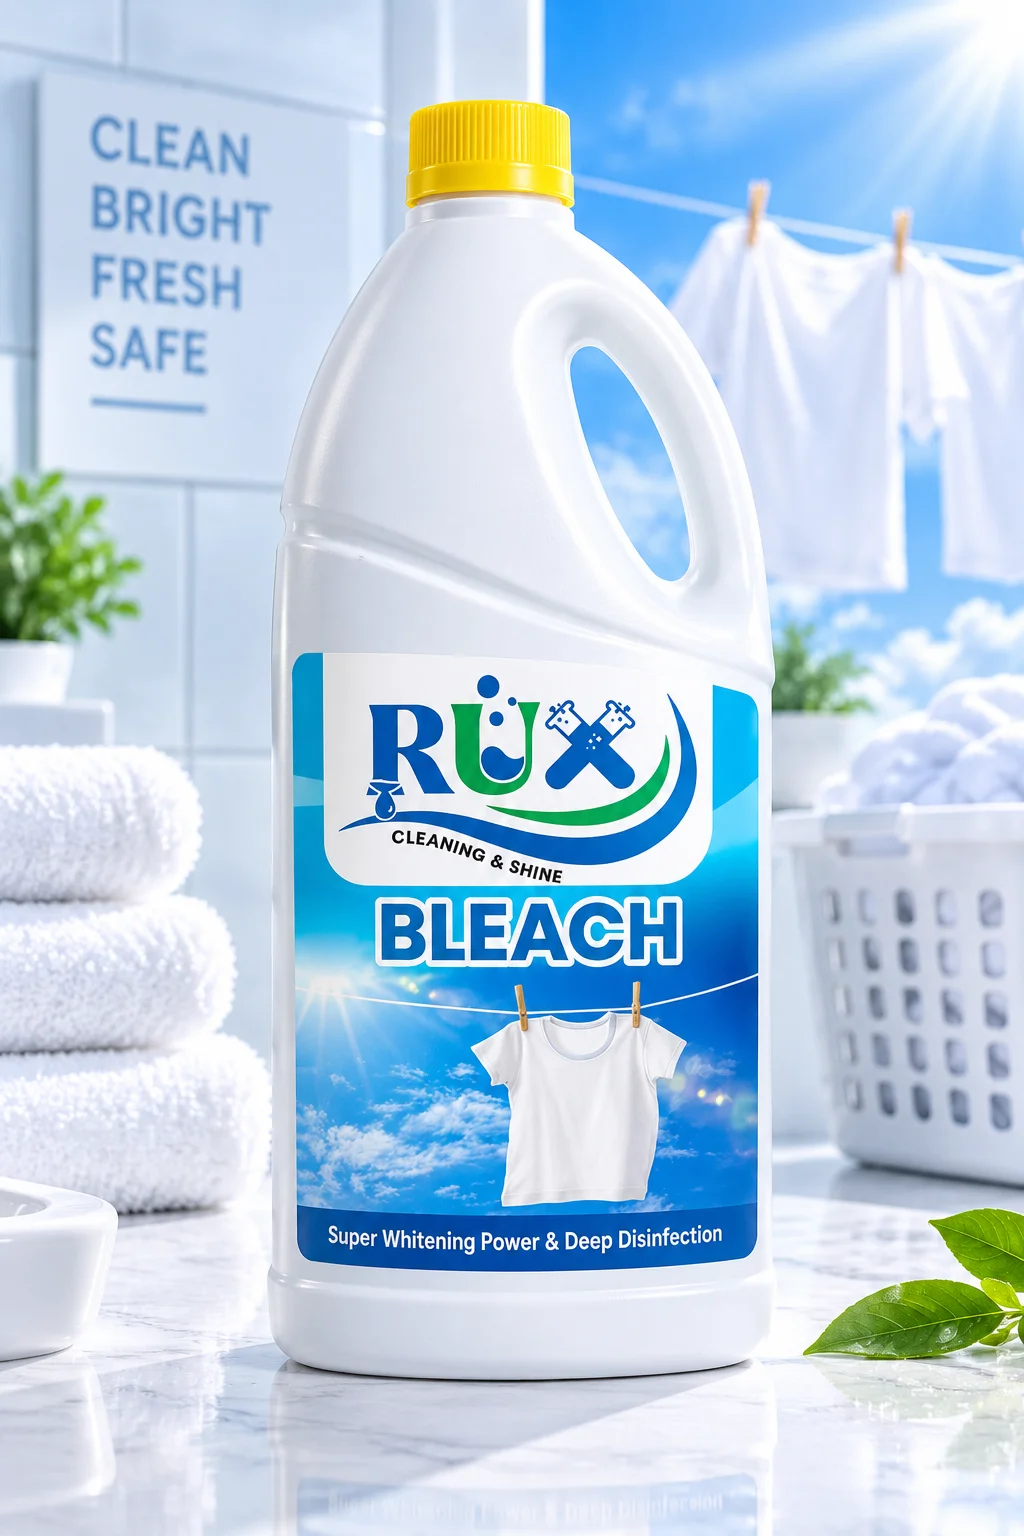
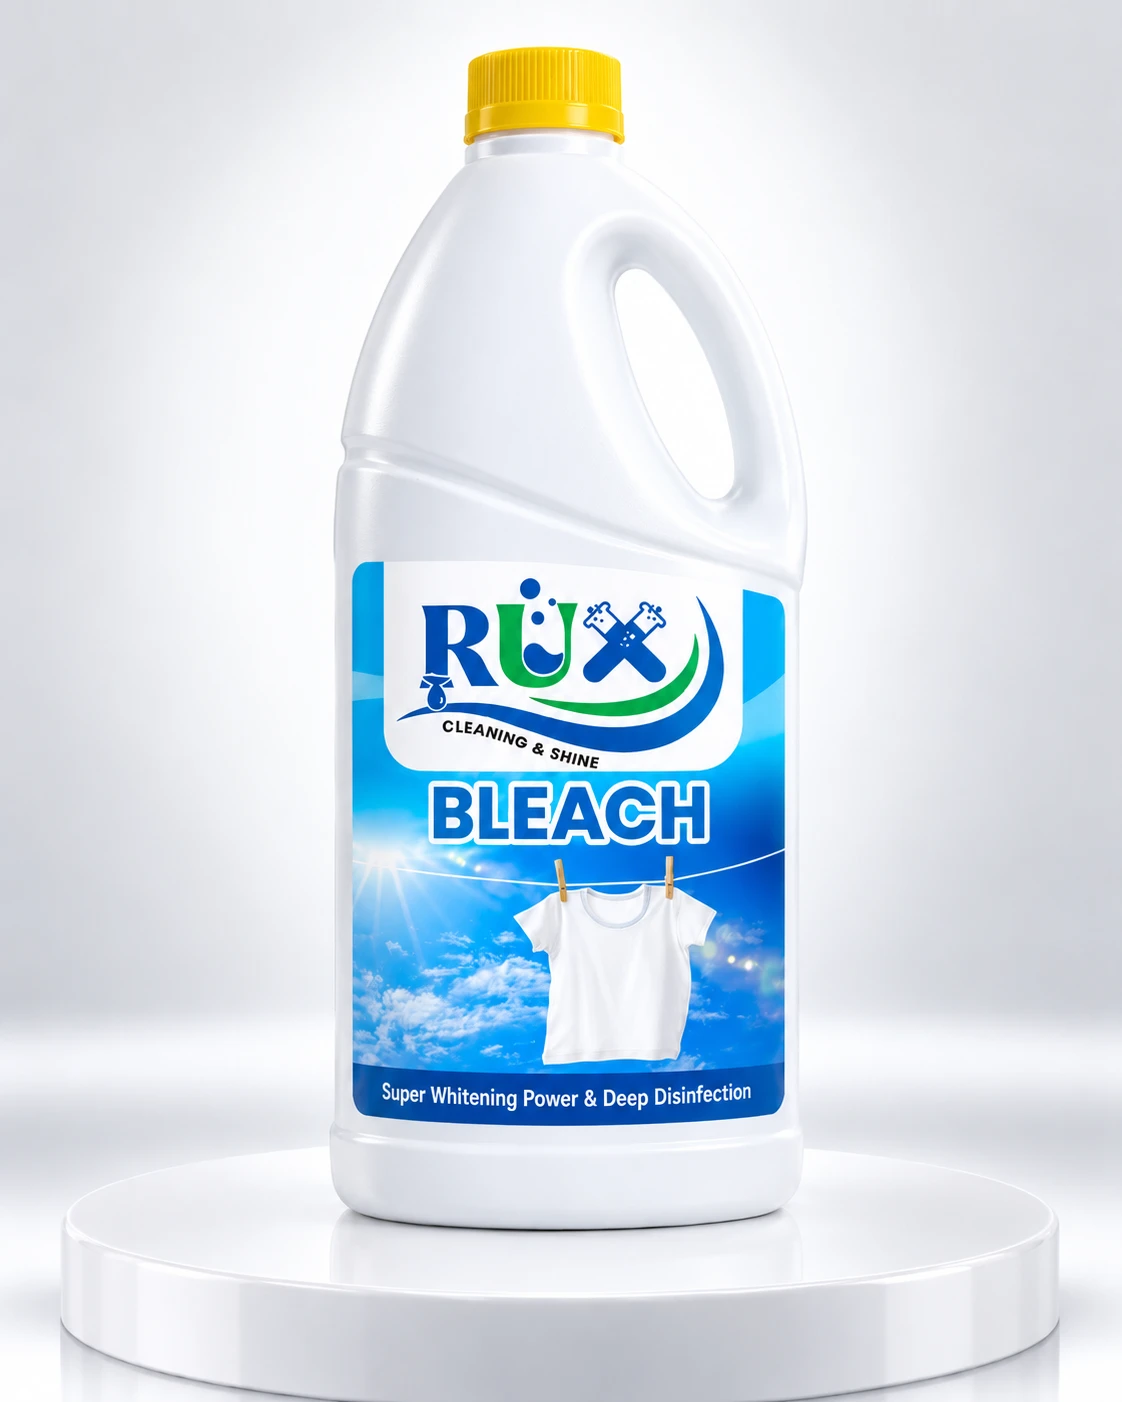
feat: upgrade all product main images to high-definition 3D studio podium renders

diff --git a/tools/apply_main_product_images.js b/tools/apply_main_product_images.js
@@ -1,0 +1,101 @@
+const { execSync } = require('child_process');
+const fs = require('fs');
+const path = require('path');
+
+const srcDir = 'C:\\Users\\SDW 2\\Downloads\\main product images';
+const destDir = path.join(__dirname, '..', 'assets', 'images', 'products');
+const backupDir = path.join(destDir, 'backup_previous');
+
+if (!fs.existsSync(backupDir)) {
+  fs.mkdirSync(backupDir, { recursive: true });
+}
+
+const mappings = [
+  {
+    id: 'rux-multi-surface',
+    name: 'RUX Multi Surface Cleaner (1000ml)',
+    srcName: 'multi.png',
+    destWebpName: 'rux-multi-surface-studio.webp',
+    destPngName: 'rux-multi-surface-studio.png'
+  },
+  {
+    id: 'rux-toilet-cleaner',
+    name: 'RUX Toilet Bowl Cleaner (500ml)',
+    srcName: 'toilet.png',
+    destWebpName: 'rux-toilet-cleaner-studio.webp',
+    destPngName: 'rux-toilet-cleaner-studio.png'
+  },
+  {
+    id: 'rux-dishwash',
+    name: 'RUX Dishwash Liquid (500ml)',
+    srcName: 'dish.png',
+    destWebpName: 'rux-dishwash-studio.webp',
+    destPngName: 'rux-dishwash-studio.png'
+  },
+  {
+    id: 'rux-blue',
+    name: 'RUX Blue Fabric Whitener (150ml)',
+    srcName: 'blue.png',
+    destWebpName: 'rux-blue-studio.webp',
+    destPngName: 'rux-blue-studio.png'
+  },
+  {
+    id: 'rux-bleach',
+    name: 'RUX Disinfectant Bleach',
+    srcName: 'bleech.png',
+    destWebpName: 'rux-bleach-studio.webp',
+    destPngName: 'rux-bleach-studio.png'
+  },
+  {
+    id: 'rux-solar-cleaner',
+    name: 'RUX Solar Panel Cleaner (750ml)',
+    srcName: 'solar.png',
+    destWebpName: 'rux-solar-cleaner.webp',
+    destPngName: 'rux-solar-cleaner.png'
+  },
+  {
+    id: 'rux-washing-liquid',
+    name: 'RUX Washing Machine Liquid (2L)',
+    srcName: 'washing liquid.png',
+    destWebpName: 'rux-washing-liquid.webp',
+    destPngName: 'rux-washing-liquid.png'
+  }
+];
+
+console.log('=== Processing Main Product Images ===');
+
+mappings.forEach((item, index) => {
+  const srcPath = path.join(srcDir, item.srcName);
+  const destWebpPath = path.join(destDir, item.destWebpName);
+  const destPngPath = path.join(destDir, item.destPngName);
+  const backupWebpPath = path.join(backupDir, item.destWebpName);
+
+  if (!fs.existsSync(srcPath)) {
+    console.error(`[FAIL] Source file not found: ${srcPath}`);
+    return;
+  }
+
+  // Backup existing webp if exists
+  if (fs.existsSync(destWebpPath)) {
+    fs.copyFileSync(destWebpPath, backupWebpPath);
+  }
+
+  // Copy PNG version
+  fs.copyFileSync(srcPath, destPngPath);
+
+  const originalSize = fs.statSync(srcPath).size;
+  console.log(`\n[${index + 1}/${mappings.length}] Converting ${item.name}...`);
+  console.log(`Source: ${srcPath} (${(originalSize / 1024 / 1024).toFixed(2)} MB)`);
+
+  // Convert to high-quality optimized WebP using sharp-cli
+  try {
+    execSync(`npx -y sharp-cli -i "${srcPath}" -o "${destWebpPath}" --quality 90`, { stdio: 'inherit' });
+    const newSize = fs.statSync(destWebpPath).size;
+    const savings = ((1 - newSize / originalSize) * 100).toFixed(1);
+    console.log(`✓ Generated ${item.destWebpName}: ${(newSize / 1024).toFixed(1)} KB (Saved ${savings}%)`);
+  } catch (err) {
+    console.error(`Error converting ${srcPath}:`, err.message);
+  }
+});
+
+console.log('\n=== All 7 main product images converted successfully! ===');

diff --git a/index.html b/index.html
@@ -440,7 +440,7 @@
           <!-- Coming Soon 2: Solar Cleaner -->
           <div style="background: #ffffff; border-radius: 18px; padding: 22px; border: 1.5px dashed #0056b3; box-shadow: var(--shadow-sm); display: flex; flex-direction: column;">
             <div style="position: relative; border-radius: 12px; overflow: hidden; margin-bottom: 14px; aspect-ratio: 1/1; background: #eff6ff; display: flex; align-items: center; justify-content: center;">
-              <img src="assets/images/products/rux-solar-cleaner.webp" alt="RUX Solar Panel Cleaner Poster" style="max-height: 85%; max-width: 85%; object-fit: contain;">
+              <img src="assets/images/products/rux-solar-cleaner.webp" alt="RUX Solar Panel Cleaner 750ml Spray" style="max-height: 95%; max-width: 95%; object-fit: contain; transition: transform 0.3s ease;">
               <span class="badge" style="position: absolute; top: 10px; left: 10px; background: #0056b3; color: #fff; font-size: 0.75rem;">IN LAB TESTING</span>
             </div>
             <h3 style="font-size: 1.2rem; margin-bottom: 6px;">RUX Solar Panel Cleaner</h3>
@@ -456,8 +456,8 @@
 
           <!-- Coming Soon 3: Washing Liquid -->
           <div style="background: #ffffff; border-radius: 18px; padding: 22px; border: 1.5px dashed #10b981; box-shadow: var(--shadow-sm); display: flex; flex-direction: column;">
-            <div style="position: relative; border-radius: 12px; overflow: hidden; margin-bottom: 14px; aspect-ratio: 1/1; background: #ecfdf5; display: flex; align-items: center; justify-content: center;">
-              <img src="assets/images/products/rux-washing-liquid.webp" alt="RUX Washing Liquid Poster" style="max-height: 85%; max-width: 85%; object-fit: contain;">
+            <div style="position: relative; border-radius: 12px; overflow: hidden; margin-bottom: 14px; aspect-ratio: 1/1; background: #ecfdf5; display: flex; align-items: center; justify-content: center; padding: 12px;">
+              <img src="assets/images/products/rux-washing-liquid.webp" alt="RUX Washing Liquid 2L Bottle" style="max-height: 95%; max-width: 95%; object-fit: contain; transition: transform 0.3s ease;">
               <span class="badge" style="position: absolute; top: 10px; left: 10px; background: #10b981; color: #fff; font-size: 0.75rem;">IN LAB TESTING</span>
             </div>
             <h3 style="font-size: 1.2rem; margin-bottom: 6px;">RUX Washing Liquid</h3>

diff --git a/assets/js/rux-store.js b/assets/js/rux-store.js
@@ -231,11 +231,11 @@ const RUX_PRODUCTS = [
     reviewCount: 0,
     variants: [
       {
-        volume: "1000ml",
-        label: "1000ml Spray Bottle (Coming Soon)",
+        volume: "750ml",
+        label: "750ml Trigger Spray (Coming Soon)",
         price: 450,
         originalPrice: 550,
-        cartonSize: "12 X 1000ml",
+        cartonSize: "12 X 750ml",
         cartonPrice: 4800,
         cartonRetailTotal: 5400,
         manufacturingPrice: 320
@@ -245,7 +245,7 @@ const RUX_PRODUCTS = [
       "Boosts solar PV panel generation efficiency",
       "Anti-static shield repels airborne dust",
       "Non-corrosive to aluminum frames",
-      "Coming soon in 1000ml and 2.5L canisters"
+      "Streak-free finish with instant shine"
     ],
     usage: "Formulation completing soon.",
     safety: "Store in cool place."
@@ -266,11 +266,11 @@ const RUX_PRODUCTS = [
     reviewCount: 0,
     variants: [
       {
-        volume: "1000ml",
-        label: "1000ml Concentrated Jug (Coming Soon)",
+        volume: "2L",
+        label: "2L Value Jug (Coming Soon)",
         price: 350,
         originalPrice: 420,
-        cartonSize: "12 X 1000ml",
+        cartonSize: "6 X 2L",
         cartonPrice: 3700,
         cartonRetailTotal: 4200,
         manufacturingPrice: 240
@@ -279,8 +279,8 @@ const RUX_PRODUCTS = [
     features: [
       "Deep fiber stain-lift enzyme technology",
       "Color-lock protection against fabric fading",
-      "Concentrated formula for 25+ wash loads",
-      "Coming soon to all stores"
+      "Concentrated formula for 50+ wash loads",
+      "Gentle on delicate fabrics & skin"
     ],
     usage: "Formulation completing soon.",
     safety: "Keep out of reach of children."
